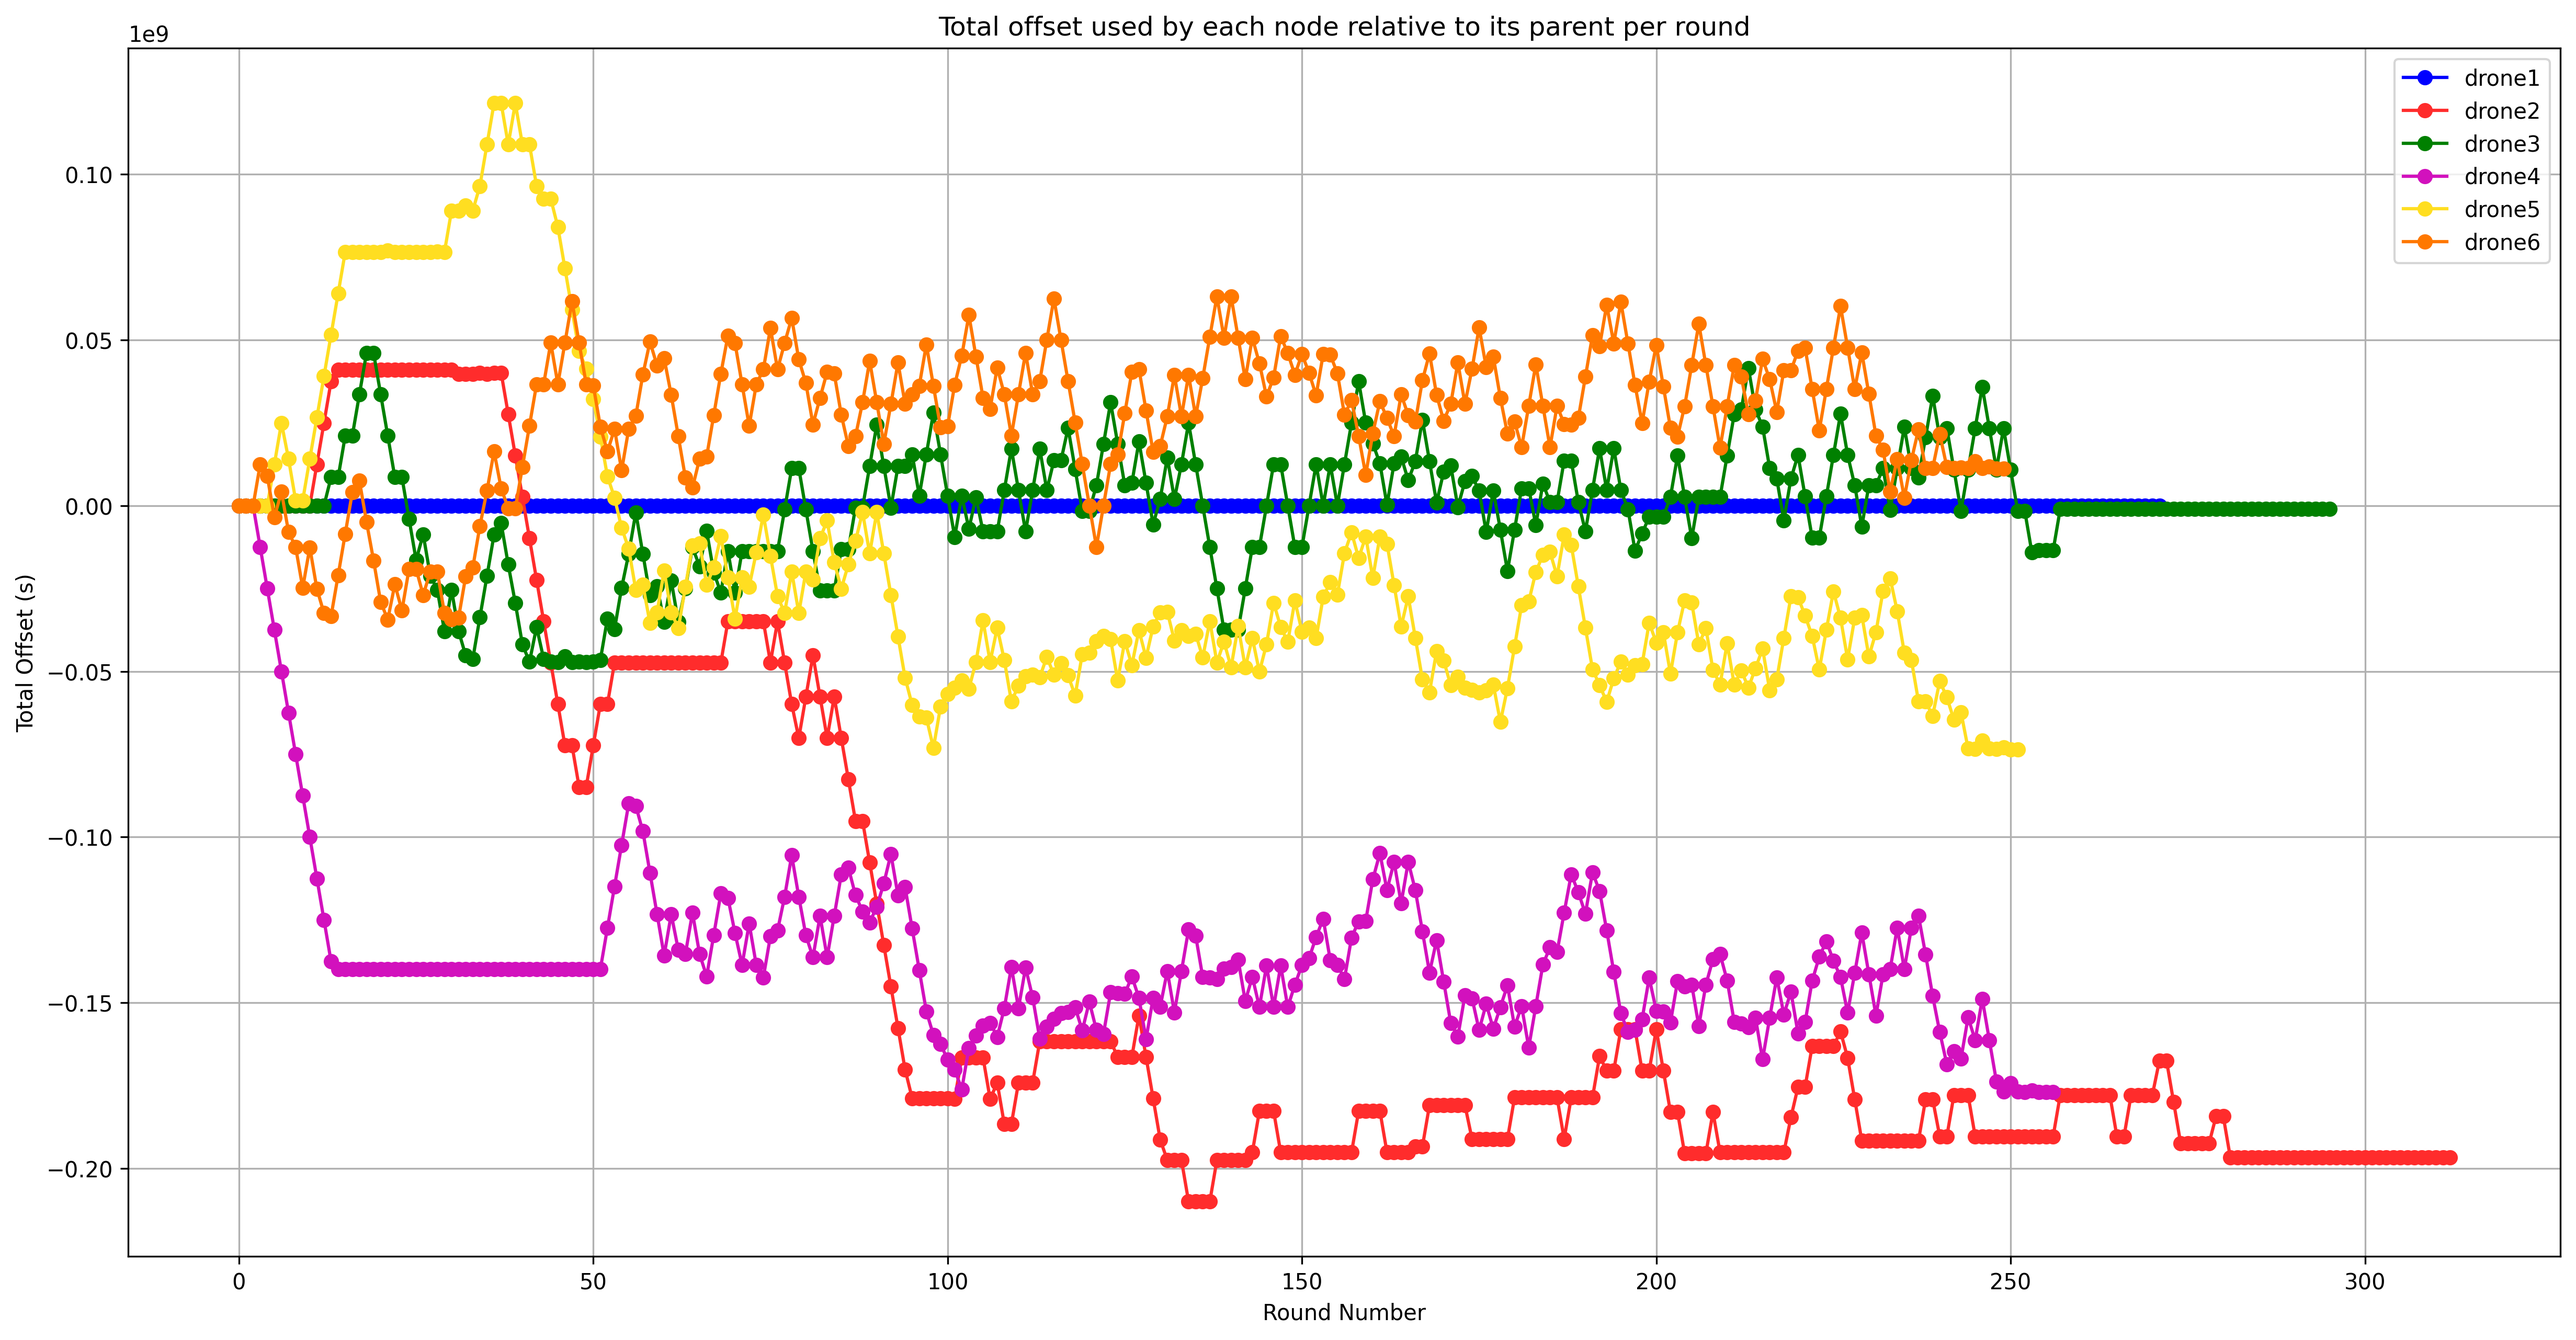
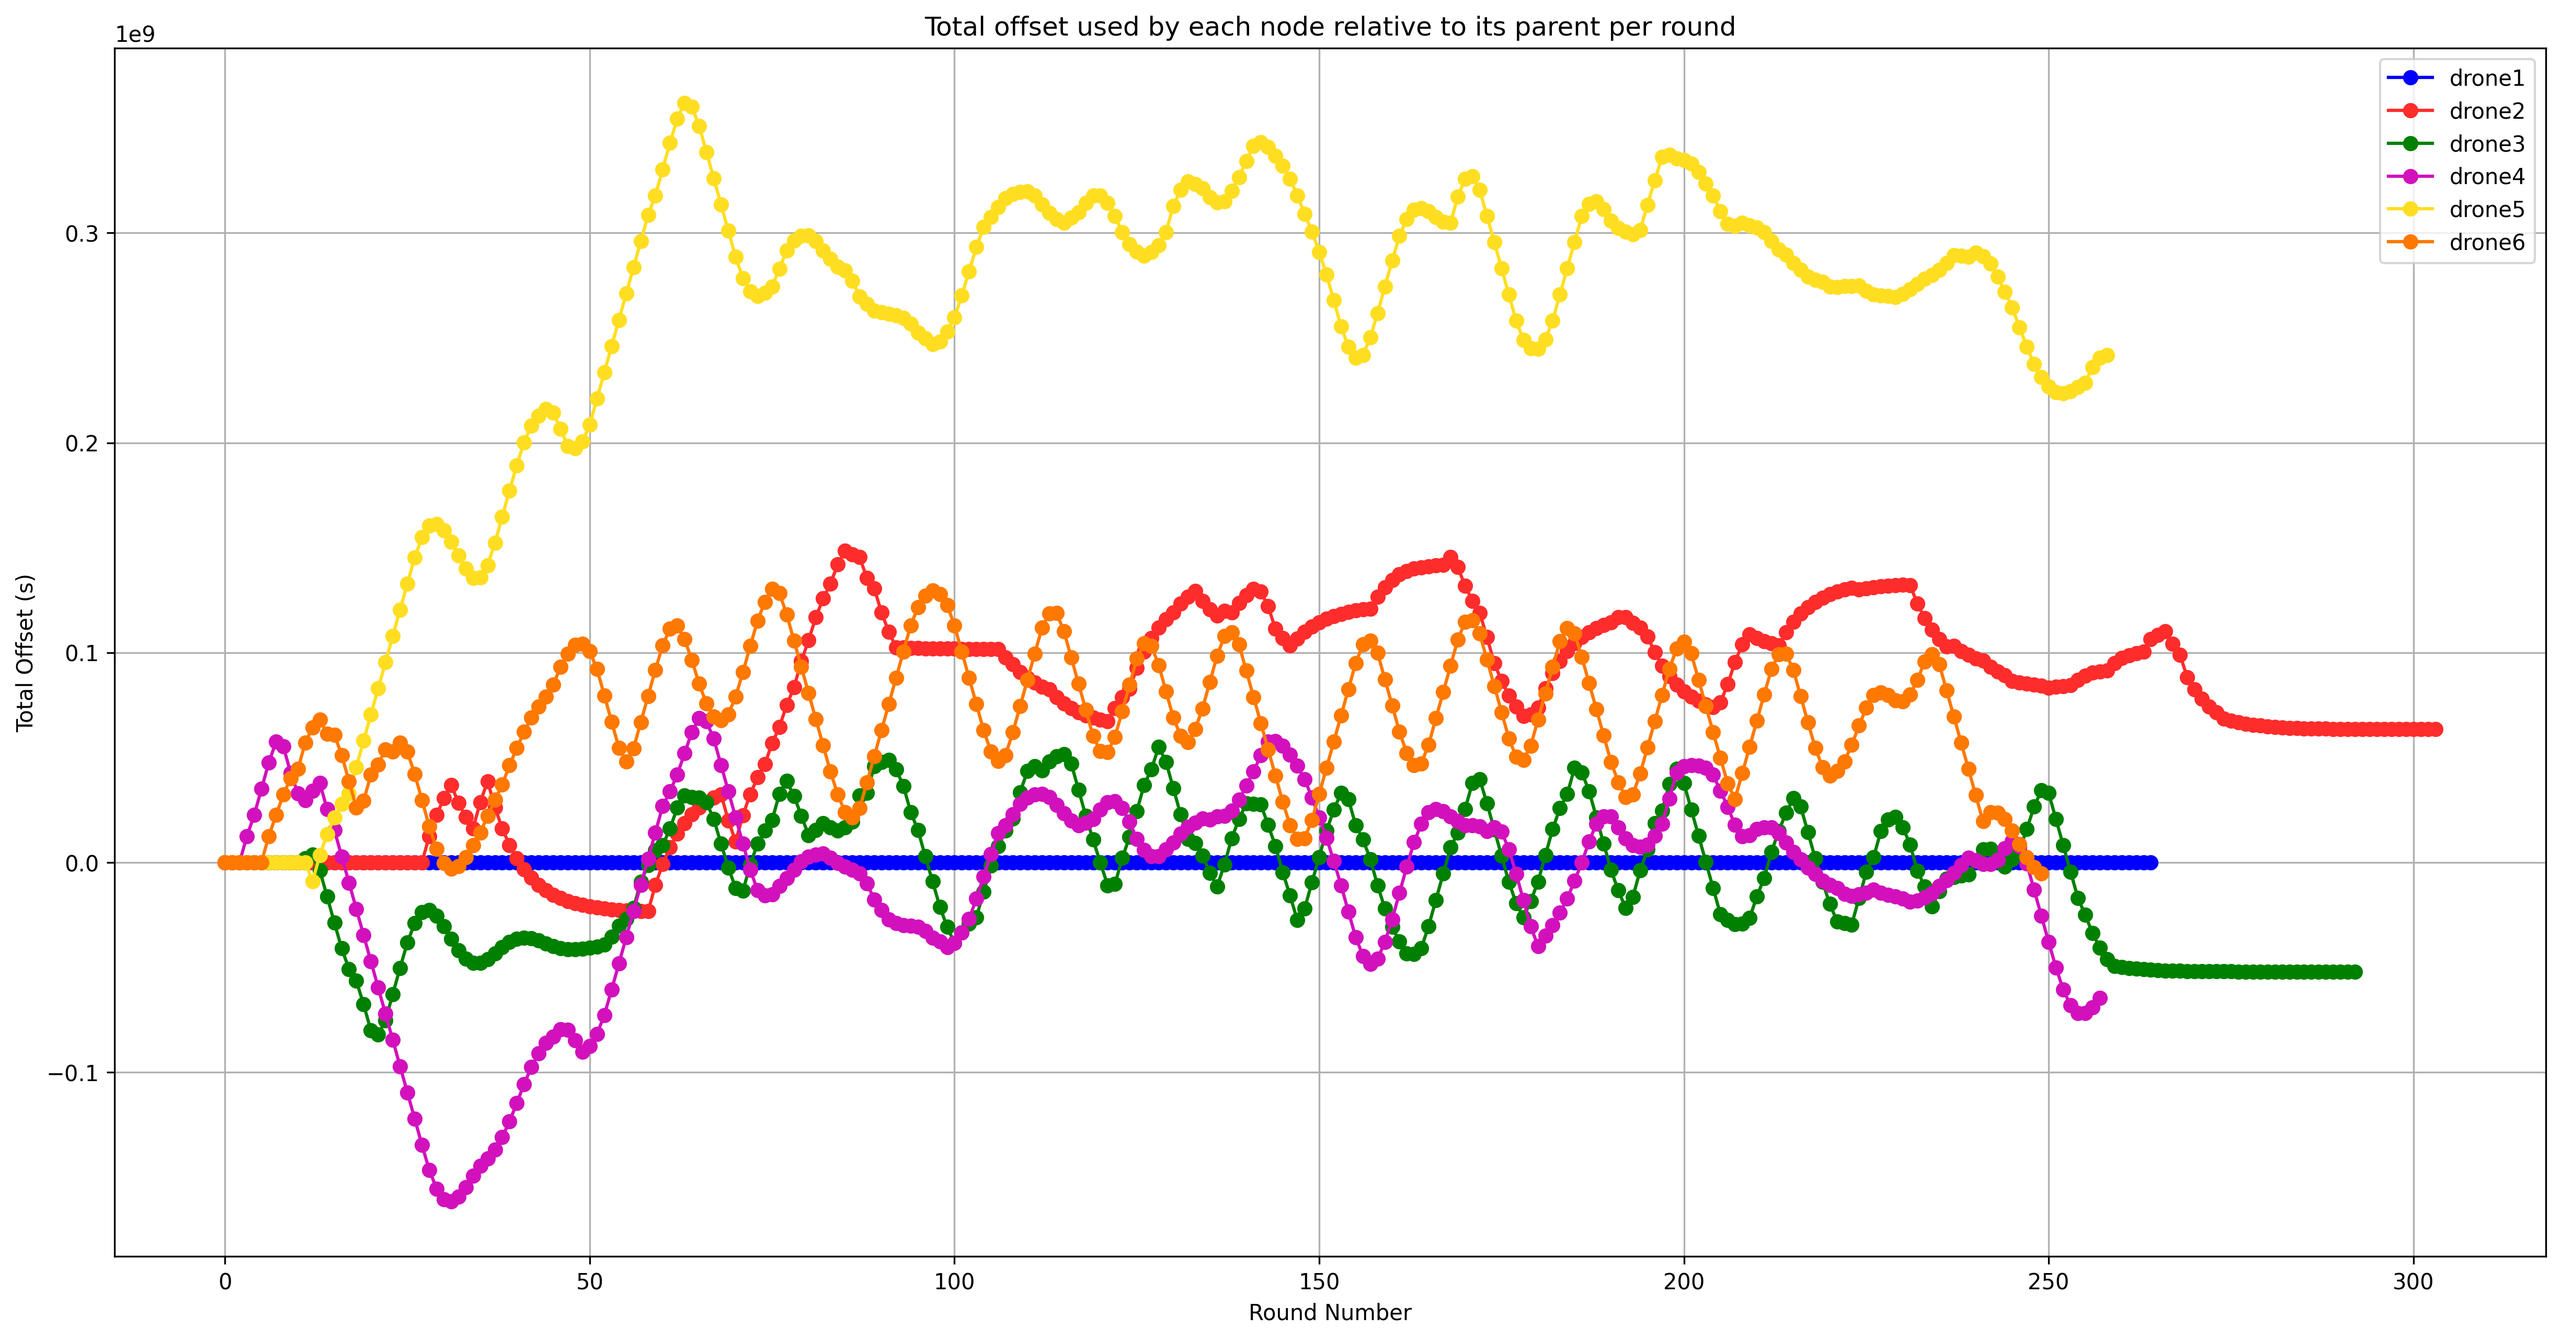
New charts

diff --git a/docs/logs/generateReport.py b/docs/logs/generateReport.py
@@ -6,7 +6,7 @@ import numpy as np
 import matplotlib.ticker as mticker
 
 SLOT_LEN_MICRO = 1000000
-TEST_NAME = 'star-topology'
+TEST_NAME = 'tree-topology'
 TEST_TYPE = 'tdma'
 NODES = ['drone1','drone2', 'drone3', 'drone4', 'drone5', 'drone6']
 PATH = './' + TEST_NAME + '/' + TEST_TYPE + '/'

diff --git a/docs/logs/processTrace.py b/docs/logs/processTrace.py
@@ -4,7 +4,7 @@ import math
 import matplotlib.pyplot as plt
 import os
 
-TEST_NAME = "star-topology"
+TEST_NAME = "tree-topology"
 TEST_TYPE = "tdma"
 TRACE_NAME = "trace-6nodes.pcapng.gz"
 
